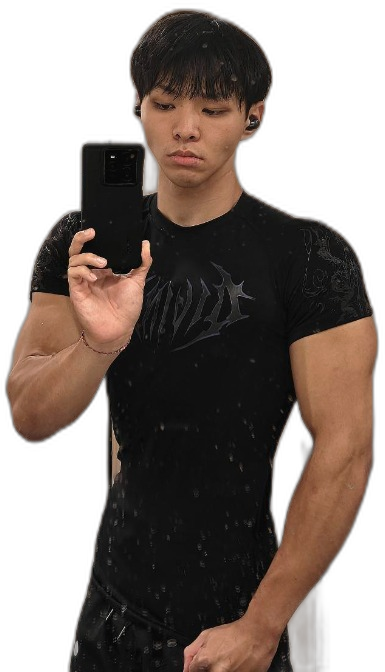
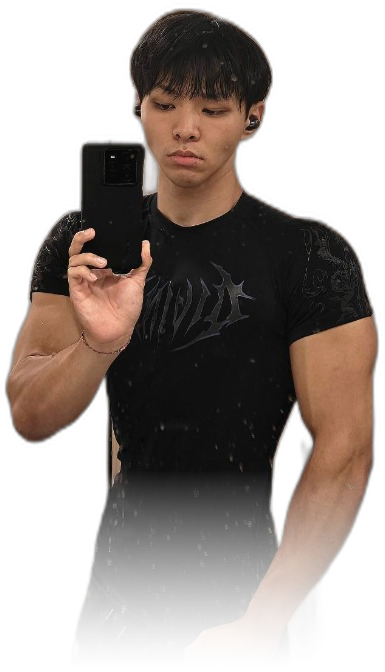
Apply smooth bottom 1/4 black gradient fade mask to right side person cutout image

Changed region(s): [[0.1558, 0.7188, 0.9662, 1.0]]

diff --git a/styles.css b/styles.css
@@ -1952,6 +1952,8 @@ button, input, select, textarea {
   height: auto;
   object-fit: contain;
   filter: drop-shadow(0 15px 35px rgba(0, 0, 0, 0.95));
+  -webkit-mask-image: linear-gradient(to bottom, #000 70%, transparent 100%);
+  mask-image: linear-gradient(to bottom, #000 70%, transparent 100%);
   transition: transform 0.4s ease, filter 0.4s ease;
 }
 
